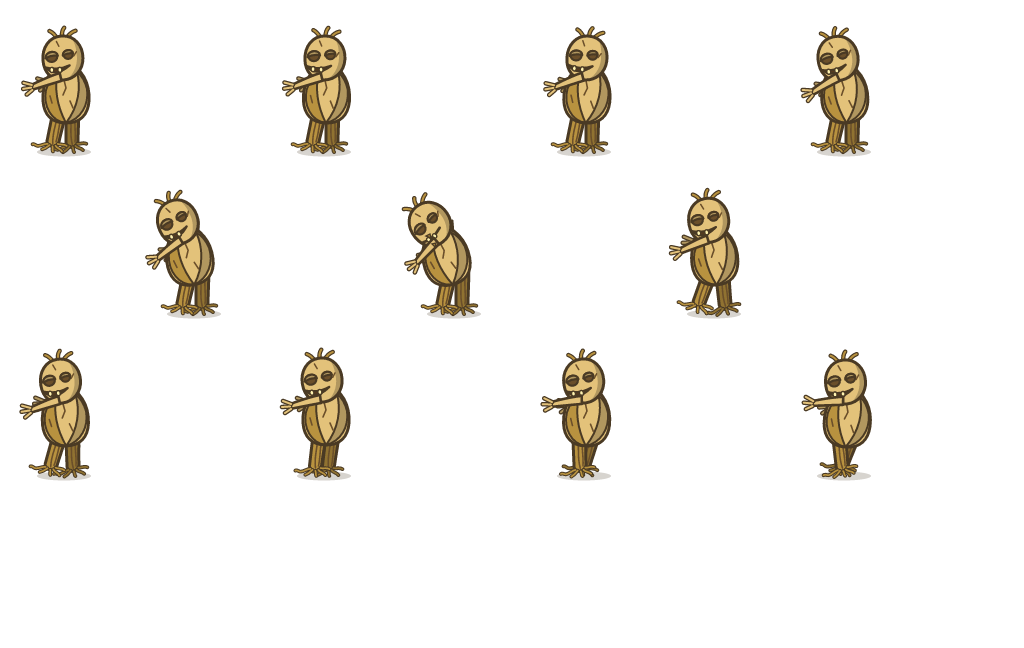
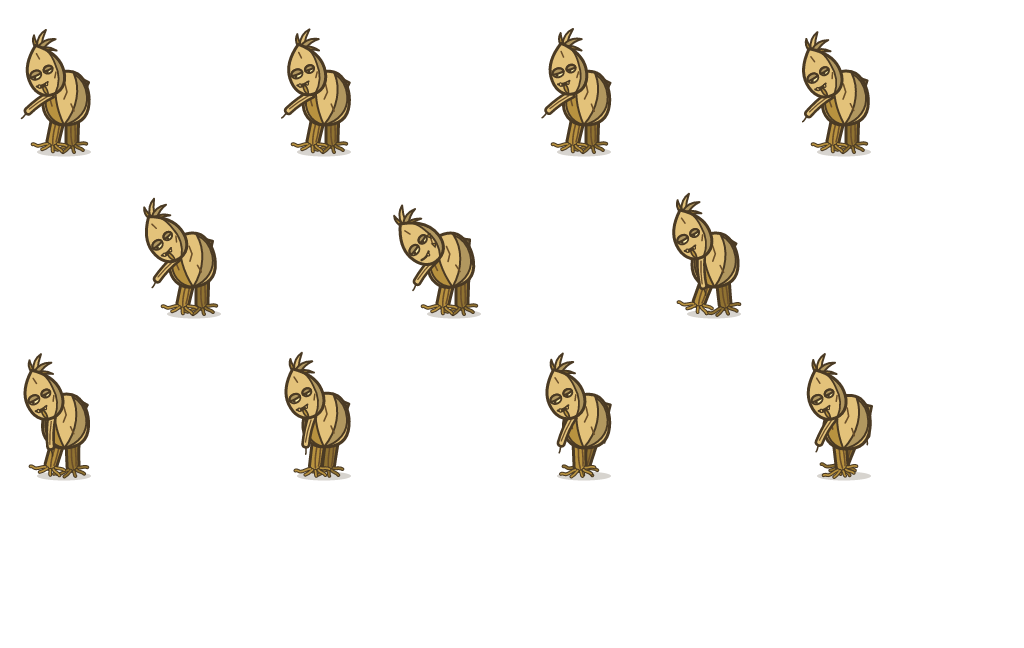
feat(art): husk 反骷髅化重做（裁决五，ART-SPEC v1.1 5.1）
头改为尖顶干种荚（干鞘尖向后乱翘）；半闭椭圆眼皮、小瞳孔无高光；歪斜小口 2 粒干种子 + 干叶舌头，无成排
牙与下颌线；驼背、头前倾压低，双臂下垂与腿反相摆动，eat 时前臂向前下方扶在守卫上。身体与根须腿保留。
重拍 a0-garden-1-1.png / -strip.png，新增 -eat-strip.png。

diff --git a/docs/progress.md b/docs/progress.md
@@ -2,6 +2,10 @@
 
 ## 会话记录（新记录追加在最上方）
 
+- 2026-10-16 会话 6：执行负责人裁决 `2026-10-16-a0-review.md`（五）与 ART-SPEC v1.1（负责人已入库 f07056e）：
+  石籽荚通过并作为守卫模板；枯壳怪按 v1.1 1.2 / 1.5 / 5.1 重做头部与姿势，重拍实机截图。**停下**，等负责人看过
+  重做后的枯壳怪再开始 A1。记录见“美术阶段 → A0 审核（裁决五）”。
+
 - 2026-10-15 会话 5：**接手（美术阶段）**，上下文重建自仓库文件（AGENT v1.3、SPEC v1.2、LORE、ART-SPEC v1、
   负责人裁决四份、ADR-001 ～ 012、`docs/art/v3-*.png`）。起点：`cargo build/test --workspace` 绿色，54 个测试。
   发现裁决（四）（Chill 下啃食相位）已入库但未落地，而 A0 第 4 项以它为范式，先落地（ADR-012 后续条目）：
@@ -62,9 +66,31 @@
 | 里程碑 | 状态 |
 |---|---|
 | A0 管线 | ✅ 2026-10-15 |
-| A1 全员静态（审核门） | 进行中 |
+| A1 全员静态（审核门） | 未开始：等负责人看过重做的枯壳怪（裁决五第 3 节） |
 | A2 全员动画与特效 | 未开始 |
 | A3 战场与叙事 | 未开始 |
+
+### A0 审核（裁决五，2026-10-16）
+
+- 石籽荚：通过，作为 12 个守卫的模板（画布、描边、阴影、眼与嘴画法、部件拆分）。
+- 枯壳怪：不通过（读作“骷髅僵尸”），按 ART-SPEC v1.1 重做，身体（层叠干鞘、配色、根须腿、掉屑）保留：
+
+  | 部位 | 重做后 | 出处 |
+  |---|---|---|
+  | 眼 | 米色眼球被下垂的椭圆眼皮盖住上半，小瞳孔贴下缘，无高光；无黑眼窝 | v1.1 1.2 |
+  | 嘴 | 歪斜小口，2 粒零散干种子（`straw` 色，不用米白以免读成牙），垂一片干叶舌头；无下颌线 | v1.1 1.2 / 5.1 |
+  | 头形 | 尖顶干种荚，顶端 4 片干鞘尖向后乱翘、聚在荚尖（不排成一圈，避免读成鸡冠） | v1.1 1.2 / 5.1 |
+  | 姿势 | 驼背：头前倾压低到肩下、背部成最高点；双臂下垂、与同侧腿反相摆动；前臂画在头后 | v1.1 1.2 / 5.1 |
+  | eat | 前臂向前下方扶在守卫侧面（40°，低于嘴，避免回到“平举前伸”），俯身猛点头咬合 | v1.1 5.1 |
+  | 手 | 钝圆的叶鞘末端垂一缕纤维（原先两缕读作钳子） | 1.5 |
+
+- 自查：纯黑剪影已看过，不再能读出“僵尸”，是弯腰的植物。**仍有的顾虑**：尖顶 + 驼背 + 根须脚的剪影略带
+  “小鸟”感。我试过在背上加一片下垂长干叶来强化“枯玉米”，结果读作尾羽（更像鸡），已撤回；请负责人判断
+  是否需要处理。
+- 实机证据（Xvfb，release 无 devtools，花园皮肤）：`docs/screenshots/a0-garden-1-1.png`（第 60 s，一只正在受击
+  闪白）、`a0-garden-1-1-strip.png`（第 30 / 45 / 75 / 90 / 105 s 行走）、新增 `a0-garden-1-1-eat-strip.png`
+  （临时脚本把石籽荚放在最右格，第 32 ～ 40 s：走近、扶上、俯身咬合，石籽荚受损后叶片下垂）。
+- 测试：artgen 15、`tests/skin.rs` 8、`tests/flow.rs` 7 通过；尺寸校验通过；只改了 `art/characters/husk/` 与生成资产。
 
 ### A0 管线
 
